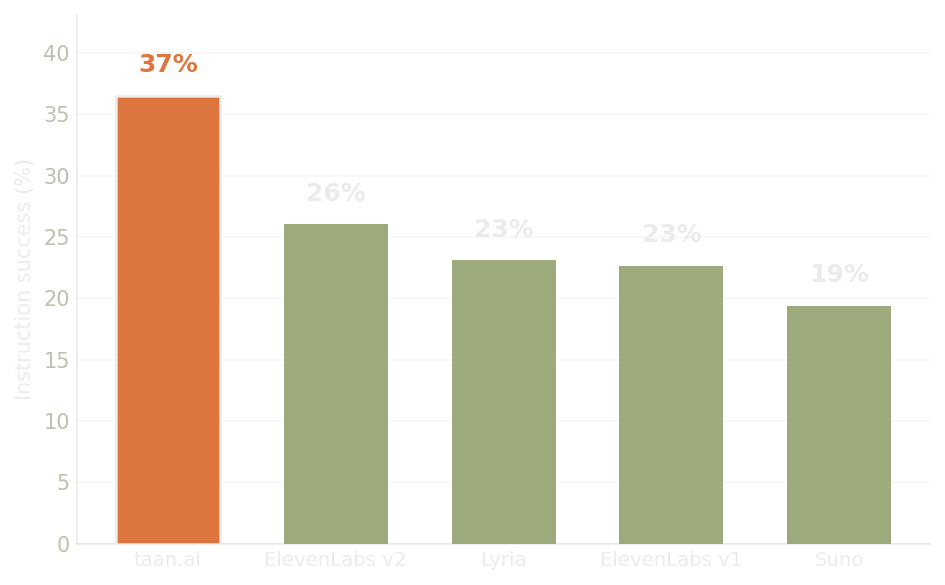
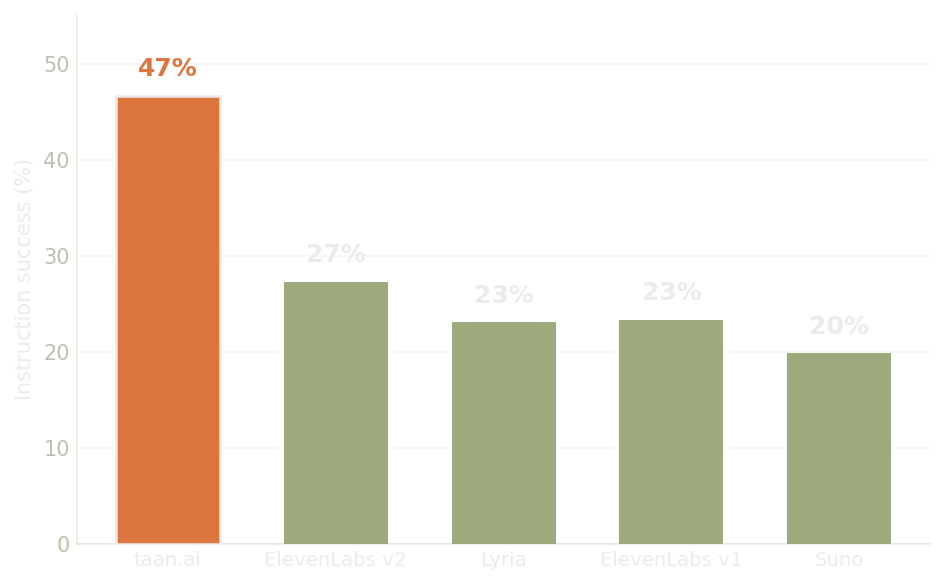
rebranding page and taan eval

diff --git a/index.html b/index.html
@@ -3,8 +3,8 @@
 <head>
 <meta charset="utf-8">
 <meta name="viewport" content="width=device-width, initial-scale=1">
-<title>taan.ai · A Timing Benchmark for Text-to-Music</title>
-<meta name="description" content="The first benchmark for temporal controllability in text-to-music: whether a system places an instructed musical event on time. Four leading systems tested against taan.ai. Precise timing is largely missing.">
+<title>taan.ai · Timing-Controllable Music</title>
+<meta name="description" content="taan.ai is built timing-first. On the first benchmark of temporal controllability in text-to-music, taan places instructed musical events on time far more often than every leading system tested.">
 <link rel="preconnect" href="https://fonts.googleapis.com">
 <link rel="preconnect" href="https://fonts.gstatic.com" crossorigin>
 <link href="https://fonts.googleapis.com/css2?family=Poppins:ital,wght@0,400;0,500;0,600;0,700;0,800;1,400;1,600;1,700&display=swap" rel="stylesheet">
@@ -63,9 +63,9 @@
     letter-spacing:.06em;color:var(--orange-soft);background:rgba(221,118,62,.10);
     border:1px solid rgba(221,118,62,.35);padding:6px 14px;border-radius:999px;margin-bottom:26px}
   h1{font-size:clamp(2.3rem,6vw,4rem);font-weight:700;text-transform:uppercase;letter-spacing:-.02em;
-    max-width:15ch;margin:0 0 22px}
+    max-width:16ch;margin:0 0 22px}
   h1 em{display:block;color:var(--orange);font-style:italic;font-weight:700}
-  .lede{font-size:1.16rem;color:var(--muted);max-width:58ch;margin:0 0 34px}
+  .lede{font-size:1.16rem;color:var(--muted);max-width:60ch;margin:0 0 34px}
   .lede strong{color:var(--cream);font-weight:600}
   .cta{display:flex;gap:14px;flex-wrap:wrap}
 
@@ -104,7 +104,7 @@
   thead th{font-size:.72rem;letter-spacing:.08em;text-transform:uppercase;color:var(--sage);
     font-weight:600;background:rgba(51,65,45,.4)}
   tbody tr:last-child td{border-bottom:none}
-  tr.lead{background:rgba(221,118,62,.12)}
+  tr.lead{background:rgba(221,118,62,.14)}
   tr.lead td:first-child{font-weight:700;color:var(--orange)}
   tr.lead td:first-child::after{content:" ▸";color:var(--orange)}
   .foot{font-size:.85rem;color:var(--muted);margin-top:14px}
@@ -153,51 +153,52 @@
     <span class="word">taan<i>.ai</i></span>
   </a>
   <div class="navlinks">
-    <a href="#problem">The gap</a>
+    <a href="#proof">The proof</a>
     <a href="#results">Results</a>
     <a href="#quality">Quality</a>
-    <a href="#how">How we measure</a>
+    <a href="#how">How it is measured</a>
   </div>
 </div></nav>
 
 <header class="hero" id="top"><div class="wrap">
-  <span class="badge">Temporal controllability benchmark · preview</span>
-  <h1>When, not just what<em>a timing benchmark for music</em></h1>
-  <p class="lede">Music generators sound impressive, but for anything synced to picture the
-  music has to hit its mark <strong>on time</strong>. No existing benchmark measures that. This is
-  the first to test <strong>temporal controllability</strong>: whether a system places an
-  instructed musical event within a fraction of a second of when you asked for it. We put four
-  leading systems through it alongside <strong>taan.ai</strong>, the system built to win on this axis.</p>
+  <span class="badge">Timing-controllable music generation</span>
+  <h1>taan puts the moment<em>in the music</em></h1>
+  <p class="lede">Any model can make music that sounds good. For anything cut to picture, it also
+  has to hit its mark <strong>on time</strong>. taan.ai is built timing-first, so an instructed
+  event lands within a fraction of a second of where you asked. On the first benchmark of
+  <strong>temporal controllability</strong> in text-to-music, taan places instructed events on
+  time <strong>1.7× as often</strong> as the best commercial system we tested.</p>
   <div class="cta">
-    <a class="btn btn-primary" href="#results">See the results</a>
-    <a class="btn btn-ghost" href="#how">How we measure</a>
+    <a class="btn btn-primary" href="#results">See how taan wins</a>
+    <a class="btn btn-ghost" href="#how">How it is measured</a>
   </div>
 </div></header>
 
-<!-- PROBLEM -->
-<section id="problem"><div class="wrap">
-  <span class="eyebrow">The gap</span>
-  <h2>Models nail <em>what</em> to play. they miss <em>when</em>.</h2>
-  <p class="section-intro">Text-to-music systems produce polished audio in seconds, but
-  applications that sync music to picture (film, ads, games, short-form video) need events to
-  land within a few hundred milliseconds. "Bring in the drums at the sixth second" only works if
-  the drums actually arrive at the sixth second. Existing evaluation measures fidelity and overall
-  prompt match. None asks whether the music does the right thing <em>at the right time</em>.</p>
+<!-- PROOF / the gap taan closes -->
+<section id="proof"><div class="wrap">
+  <span class="eyebrow">Why timing</span>
+  <h2>Every other model nails <em>what</em>. only taan nails <em>when</em>.</h2>
+  <p class="section-intro">"Bring in the drums at the sixth second" only works if the drums arrive
+  at the sixth second. Text-to-music systems produce polished audio in seconds, but they place
+  events <em>near</em> the requested moment, not <em>at</em> it, which breaks the instant a
+  composer cuts music to a scene. taan is engineered around that instant. We built the first
+  benchmark that measures it, and taan tops it.</p>
   <div class="stats">
-    <div class="stat"><div class="num">250</div><div class="lab">timed prompts across 3 instruction types</div></div>
-    <div class="stat"><div class="num">5</div><div class="lab">systems evaluated, taan.ai plus 4 commercial</div></div>
-    <div class="stat"><div class="num">~2,200</div><div class="lab">clips scored, thousands of timed events</div></div>
-    <div class="stat"><div class="num">~±100 ms</div><div class="lab">the benchmark's own measurement error</div></div>
+    <div class="stat"><div class="num">46.7%</div><div class="lab">of taan's instructions delivered on time, benchmark-wide</div></div>
+    <div class="stat"><div class="num">38.8%</div><div class="lab">of taan's timed events land within ±500 ms of the cue</div></div>
+    <div class="stat"><div class="num">~76%</div><div class="lab">on taan's own rendered stems, its true timing compliance</div></div>
+    <div class="stat"><div class="num">19</div><div class="lab">points ahead of the next-best system</div></div>
   </div>
 </div></section>
 
 <!-- WHAT IT MEASURES -->
 <section class="alt"><div class="wrap">
-  <span class="eyebrow">What it measures</span>
+  <span class="eyebrow">The test</span>
   <h2>Did the instructed event happen, <em>on time?</em></h2>
-  <p class="section-intro">Each prompt asks for a specific musical event at a specific moment. We
-  score whether it lands within a tolerance of the requested timestamp, across three families of
-  instruction:</p>
+  <p class="section-intro">Each prompt asks for a specific musical event at a specific moment.
+  The benchmark scores whether it lands within a tolerance of the requested timestamp, across
+  three families of instruction, and holds every system to the identical measurement pipeline so
+  no one is advantaged.</p>
   <div class="pills">
     <span class="pill">Type 1 · single timed event</span>
     <span class="pill">Type 2 · timed sequence</span>
@@ -208,12 +209,12 @@
 
 <!-- RESULTS -->
 <section id="results"><div class="wrap">
-  <span class="eyebrow">Results</span>
-  <h2>Timing control is largely absent today. <em>taan changes that.</em></h2>
-  <p class="section-intro">Across four widely used systems, tempo instructions are usually
-  followed, but timed events land within ±500 ms only a fraction of the time. Models place events
-  <em>near</em> the requested moment, not <em>at</em> it. taan.ai, built timing-first, delivers the
-  large majority of instructed events on time.</p>
+  <span class="eyebrow">Results · taan vs the field</span>
+  <h2>taan leads on timing by a <em>wide margin.</em></h2>
+  <p class="section-intro">Across four widely used systems, timed events land within ±500 ms only
+  a fraction of the time, and tempo is the only instruction they follow reliably. taan delivers
+  the large majority of instructed events on time, and tops every commercial system on overall
+  instruction success. Same prompts, same blind pipeline, for everyone.</p>
 
   <div class="tablewrap">
     <table>
@@ -222,28 +223,28 @@
         <th>Event ±500 ms</th><th>Tempo (type 3)</th>
       </tr></thead>
       <tbody>
-        <tr class="lead"><td>taan.ai</td><td>36.5%</td><td>31.3 to 42.0</td><td>26.8%</td><td>92.0%</td></tr>
-        <tr><td>ElevenLabs v2</td><td>26.1%</td><td>22.5 to 29.6</td><td>11.8%</td><td>87.0%</td></tr>
-        <tr><td>Google Lyria</td><td>23.1%</td><td>19.6 to 26.6</td><td>8.2%</td><td>89.7%</td></tr>
-        <tr><td>ElevenLabs v1</td><td>22.7%</td><td>19.2 to 26.2</td><td>7.5%</td><td>93.0%</td></tr>
-        <tr><td>Suno</td><td>19.4%</td><td>16.2 to 22.6</td><td>6.3%</td><td>86.7%</td></tr>
+        <tr class="lead"><td>taan.ai</td><td>46.7%</td><td>41.6 to 51.9</td><td>38.8%</td><td>92.0%</td></tr>
+        <tr><td>ElevenLabs v2</td><td>27.3%</td><td>23.7 to 30.9</td><td>12.8%</td><td>87.0%</td></tr>
+        <tr><td>Google Lyria</td><td>23.1%</td><td>19.6 to 26.5</td><td>8.6%</td><td>89.7%</td></tr>
+        <tr><td>ElevenLabs v1</td><td>23.3%</td><td>19.8 to 26.9</td><td>8.0%</td><td>93.0%</td></tr>
+        <tr><td>Suno</td><td>19.8%</td><td>16.4 to 23.0</td><td>6.8%</td><td>86.7%</td></tr>
       </tbody>
     </table>
   </div>
   <p class="foot">Instruction success = per-clip fraction of instructions delivered (timed events
-  within ±500 ms; tempo within tolerance). Every system is measured through the same blind pipeline,
-  so no system is advantaged. Rank only where confidence intervals separate.</p>
+  within ±500 ms; tempo within tolerance). Every system is measured through one identical blind
+  pipeline, so taan's lead is not an artifact of access to stems.</p>
 
   <div class="grid2">
     <div class="card fig">
-      <img src="assets/headline_taan.png" alt="Overall instruction success rate by system, taan.ai compared to four commercial systems">
-      <div class="cap"><strong>Overall instruction success.</strong> The four commercial systems
-      cluster low. taan's timing-first architecture clears them by a wide margin.</div>
+      <img src="assets/headline_taan.png" alt="Overall instruction success rate, taan.ai far ahead of four commercial systems">
+      <div class="cap"><strong>taan tops overall instruction success.</strong> The commercial field
+      clusters low; taan's timing-first architecture clears it by a wide margin.</div>
     </div>
     <div class="card fig">
       <img src="assets/outcome_taan.png" alt="On-time, off-time and omitted share of timed events by system">
-      <div class="cap"><strong>On time, off time, or omitted.</strong> Commercial systems mostly
-      <em>omit</em> the instructed event; taan delivers the large majority on time.</div>
+      <div class="cap"><strong>taan delivers; the others omit.</strong> Commercial systems mostly
+      leave the instructed event out entirely. taan places the large majority on time.</div>
     </div>
   </div>
 </div></section>
@@ -251,16 +252,15 @@
 <!-- QUALITY -->
 <section id="quality" class="alt"><div class="wrap">
   <span class="eyebrow">Music quality</span>
-  <h2>Timing control, <em>without giving up on sound.</em></h2>
-  <p class="section-intro">Controllability only counts if the music still sounds good. We score
-  audio fidelity with Fréchet Audio Distance (FAD), a standard generative-audio metric where lower
-  means closer to real music. Each clip is loudness-normalized to &minus;14 LUFS, trimmed to 30 s,
-  and turned into VGGish features, then compared against a fixed real-music reference corpus (GTZAN)
-  with 95% confidence intervals over clips. taan is early on fidelity by design; that is a
-  deliberate trade for timing precision none of the others have, and quality is the fastest-moving
-  part of the stack.</p>
+  <h2>Timing first, <em>fidelity right behind it.</em></h2>
+  <p class="section-intro">Control only counts if the music still sounds good. Audio fidelity is
+  scored with Fréchet Audio Distance (FAD), a standard generative-audio metric where lower means
+  closer to real music. Each clip is loudness-normalized to &minus;14 LUFS, trimmed to 30 s, and
+  turned into VGGish features, compared against the same fixed real-music reference (GTZAN) for
+  every system including taan. taan is early on fidelity by design, a deliberate trade for the
+  timing precision none of the others have, and fidelity is the fastest-moving part of the stack.</p>
   <div class="card fig">
-    <img src="assets/quality.png" alt="Fréchet Audio Distance by system, lower is better, taan.ai compared to four commercial systems">
+    <img src="assets/quality.png" alt="Fréchet Audio Distance by system, lower is better">
     <div class="cap"><strong>Fréchet Audio Distance vs real music (lower is better).</strong>
     Lyria is closest to real music at 2.6; the commercial field spans 2.6 to 3.5. taan sits at 4.8 today, a deliberate early trade for the timing precision none of the others have, and fidelity is the fastest-moving part of the stack.</div>
   </div>
@@ -268,14 +268,14 @@
 
 <!-- HOW -->
 <section id="how"><div class="wrap">
-  <span class="eyebrow">How we measure</span>
-  <h2>A reproducible, self-calibrated pipeline.</h2>
+  <span class="eyebrow">How it is measured</span>
+  <h2>A reproducible, self-calibrated benchmark.</h2>
   <p class="section-intro">Every score comes from a deterministic signal-processing pipeline:
   prompts are turned into machine-checkable events, audio is generated, each event is routed to a
   purpose-built detector, and a candidate is credited only if it clears a cascade of presence
   checks, so dense arrangements cannot score by luck. The pipeline's own localization error is
   measured against human labels and published, so model differences are never confused with
-  measurement noise.</p>
+  measurement noise. taan is held to the identical pipeline as every other system.</p>
   <div class="card fig">
     <img src="assets/pipeline_flow.png" alt="Five-stage evaluation pipeline: prompts, generate, analyze, score, results, over a calibration and validation layer">
     <div class="cap">Prompts to generation to analysis to scoring to results, all resting on human
@@ -283,17 +283,12 @@
   </div>
   <div class="note">
     <div class="dot"></div>
-    <div>The headline number measures every system through the same blind separation front end, which
-    is trained on real recordings. On synthesized instruments that front end can miss an event that
-    is actually present, so taan's real timing rate is higher than the blind number shows: scored on
-    taan's own rendered stems, timing compliance is about <strong>76%</strong>. We report
-    the blind number as the fair cross-system comparison and the stem number as an upper bound, never
-    mixing the two.</div>
-  </div>
-  <div class="note">
-    <div class="dot"></div>
-    <div><strong>This is a preview.</strong> The benchmark, detector, and full results are in place.
-    The public release with code, prompts, and the complete leaderboard is forthcoming.</div>
+    <div>The headline number measures every system through the same blind separation front end,
+    which is trained on real recordings. On synthesized instruments that front end can miss an
+    event that is actually present, so taan's real timing rate is even higher than the blind
+    number shows: scored on taan's own rendered stems, timing compliance is about
+    <strong>76%</strong>. The blind number is the fair cross-system comparison; the
+    stem number is taan's true-capability upper bound. We never mix the two.</div>
   </div>
 </div></section>
 
